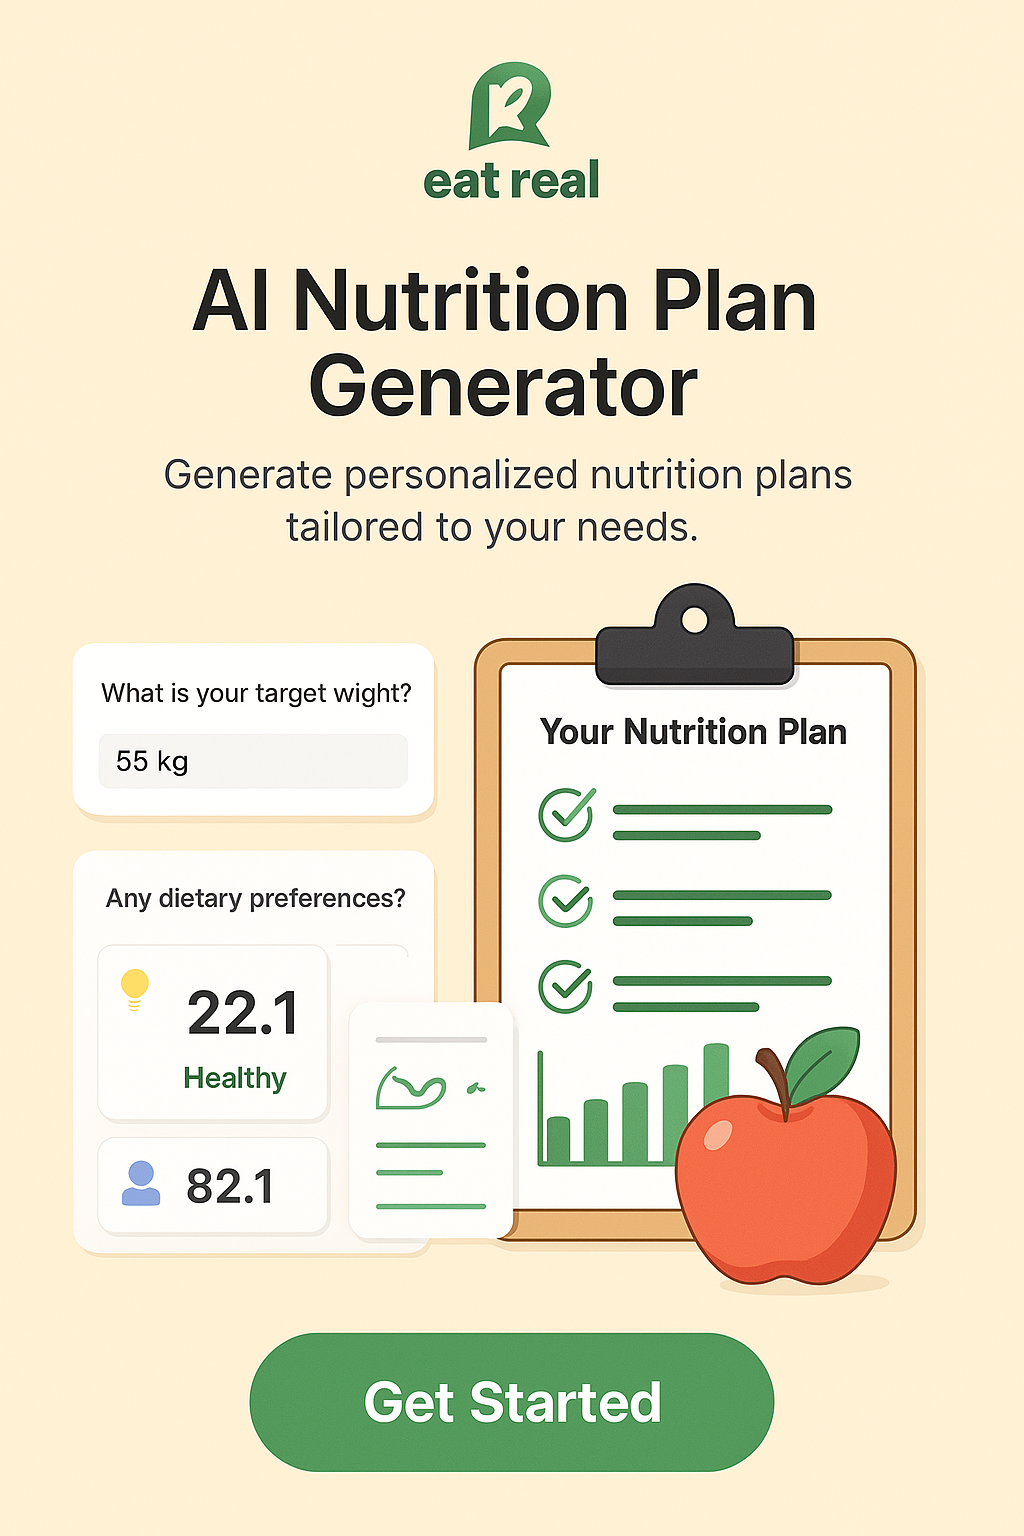
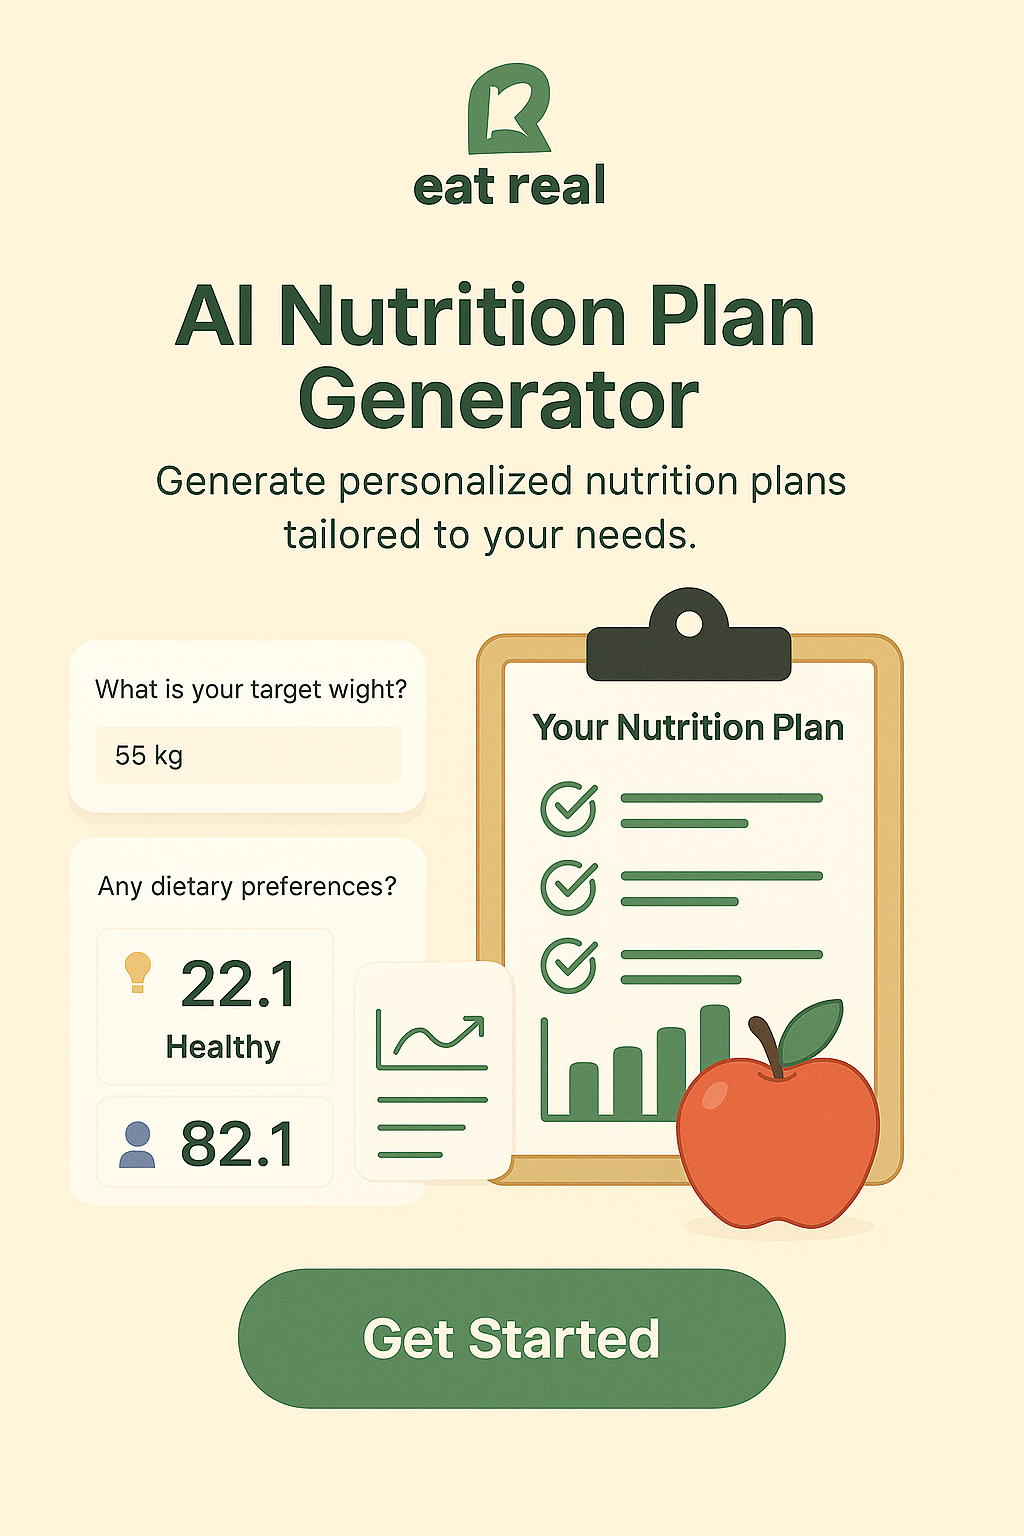
Improved phone view, added better images

Changed region(s): [[0.0625, 0.0312, 0.9062, 0.9688]]

diff --git a/index.html b/index.html
@@ -27,7 +27,7 @@
                 align-items: center;
             }
             .logo {
-                width: 72px !important;
+                width: 90px !important;
                 margin: 0 16px 0 0;
                 display: block;
             }
@@ -38,7 +38,7 @@
                 justify-content: center;
             }
             .subtitle {
-                font-size: 15px;
+                font-size: 17px;
                 margin: 0;
                 color: #555;
                 font-family: 'Segoe UI Light', 'Segoe UI', Arial, sans-serif;
@@ -52,11 +52,12 @@
             }
             .social-links {
                 gap: 16px;
-                margin-top: 12px;
+                margin-top: 24px;
                 display: flex;
+                justify-content: center;
             }
             .social-link {
-                font-size: 20px;
+                font-size: 24px;
             }
             /* Hide carousel and grid on mobile, show card stack */
             .mobile-products-carousel, .products-container.desktop-only {
@@ -65,7 +66,7 @@
             .meal-plans-grid.mobile-only {
                 display: flex;
                 flex-direction: column;
-                gap: 18px;
+                gap: 40px;
                 align-items: center;
                 padding: 0 0 18px 0;
             }
@@ -151,6 +152,9 @@
             .meal-plans-grid.mobile-only {
                 display: none !important;
             }
+            .gap {
+                column-gap: 20px;
+            }
             .header-flex {
                 max-width: 900px;
                 margin: 40px auto 32px auto;
@@ -160,17 +164,18 @@
                 align-items: center;
             }
             .logo {
-                width: 140px !important;
+                width: 180px !important;
                 margin-right: 32px;
             }
             .subtitle {
-                font-size: 20px;
+                font-size: 32px;
                 line-height: 1.5;
                 margin-bottom: 0;
             }
             .social-links {
-                margin-top: 18px;
-                font-size: 28px;
+                margin-top: 32px;
+                font-size: 32px;
+                justify-content: center;
             }
         }
     </style>
@@ -185,10 +190,6 @@
                 Transform your health through the power of <span class="highlight">natural</span>, <span class="highlight">whole foods</span>.<br>
                 Your journey to <span class="highlight">vitality</span> begins here.
             </p>
-            <div class="social-links">
-                <a href="https://www.tiktok.com/@.eatreal" target="_blank" class="social-link"><i class="fab fa-tiktok"></i></a>
-                <a href="mailto:eatreal47@gmail.com" class="social-link"><i class="far fa-envelope"></i></a>
-            </div>
         </div>
     </header>
     <!-- Mobile Card Stack (only visible on mobile) -->
@@ -349,6 +350,13 @@
         <p id="modal-message"></p>
         <button class="button close-modal">Close</button>
     </div>
+
+    <footer>
+        <div class="social-links">
+            <a href="https://www.tiktok.com/@.eatreal" target="_blank" class="social-link"><i class="fab fa-tiktok"></i></a>
+            <a href="mailto:eatreal47@gmail.com" class="social-link"><i class="far fa-envelope"></i></a>
+        </div>
+    </footer>
 
     <script src="assets/js/main.js"></script>
     <script src="assets/js/mobile-carousel.js"></script>

diff --git a/assets/css/style.css b/assets/css/style.css
@@ -10,7 +10,7 @@ body {
     line-height: 1.6;
     color: #111;
     background: #fff7e7;
-    padding: 40px 20px;
+    padding: 40px 20px 60px 20px;
     min-height: 100vh;
     margin: 0;
      /*padding-bottom: 10;
@@ -22,7 +22,7 @@ body {
 /* Header Styles */
 header {
     max-width: 600px;
-    margin: 0 auto 60px;
+    margin: 0 auto 20px;
     text-align: center;
 }
 
